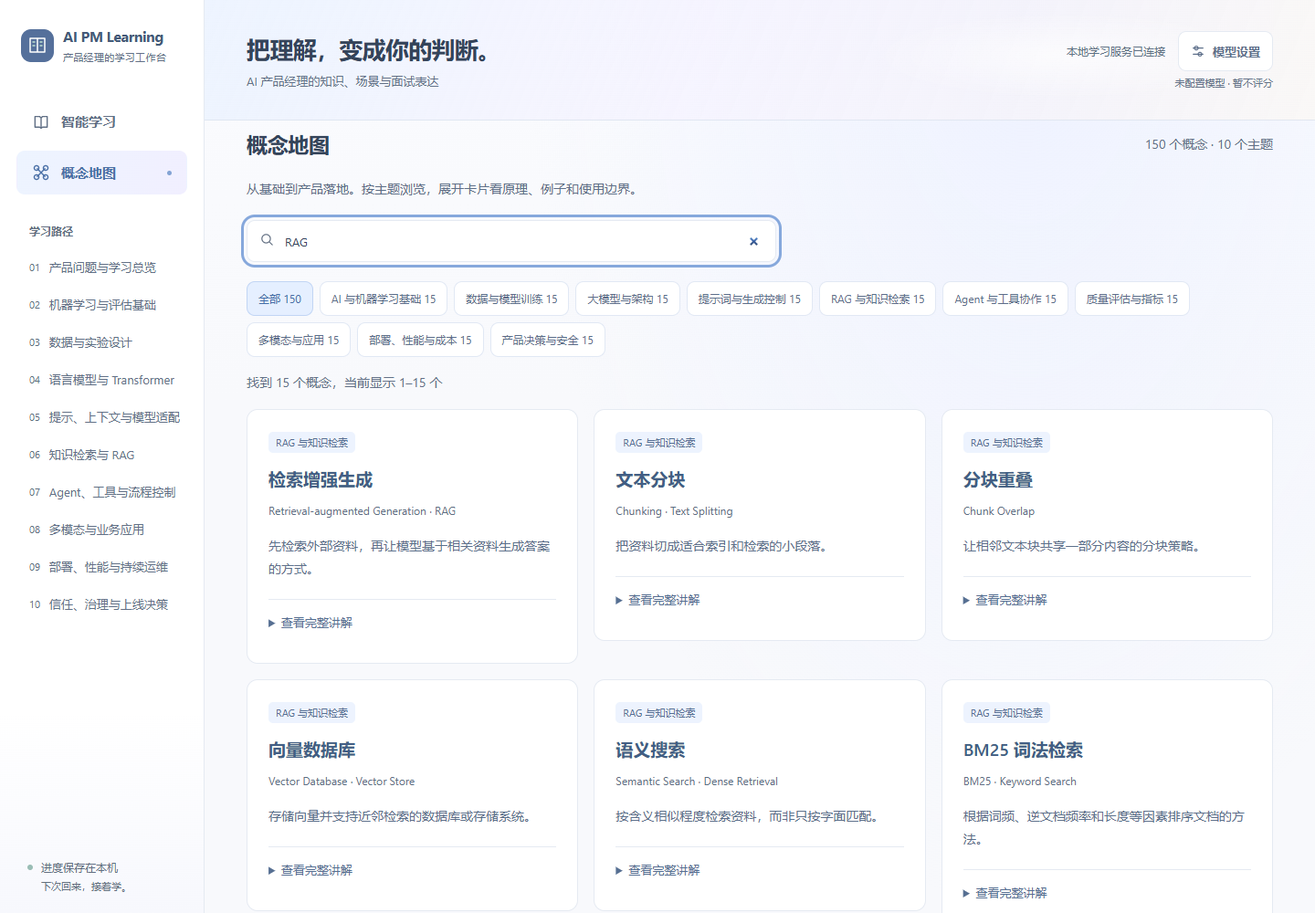
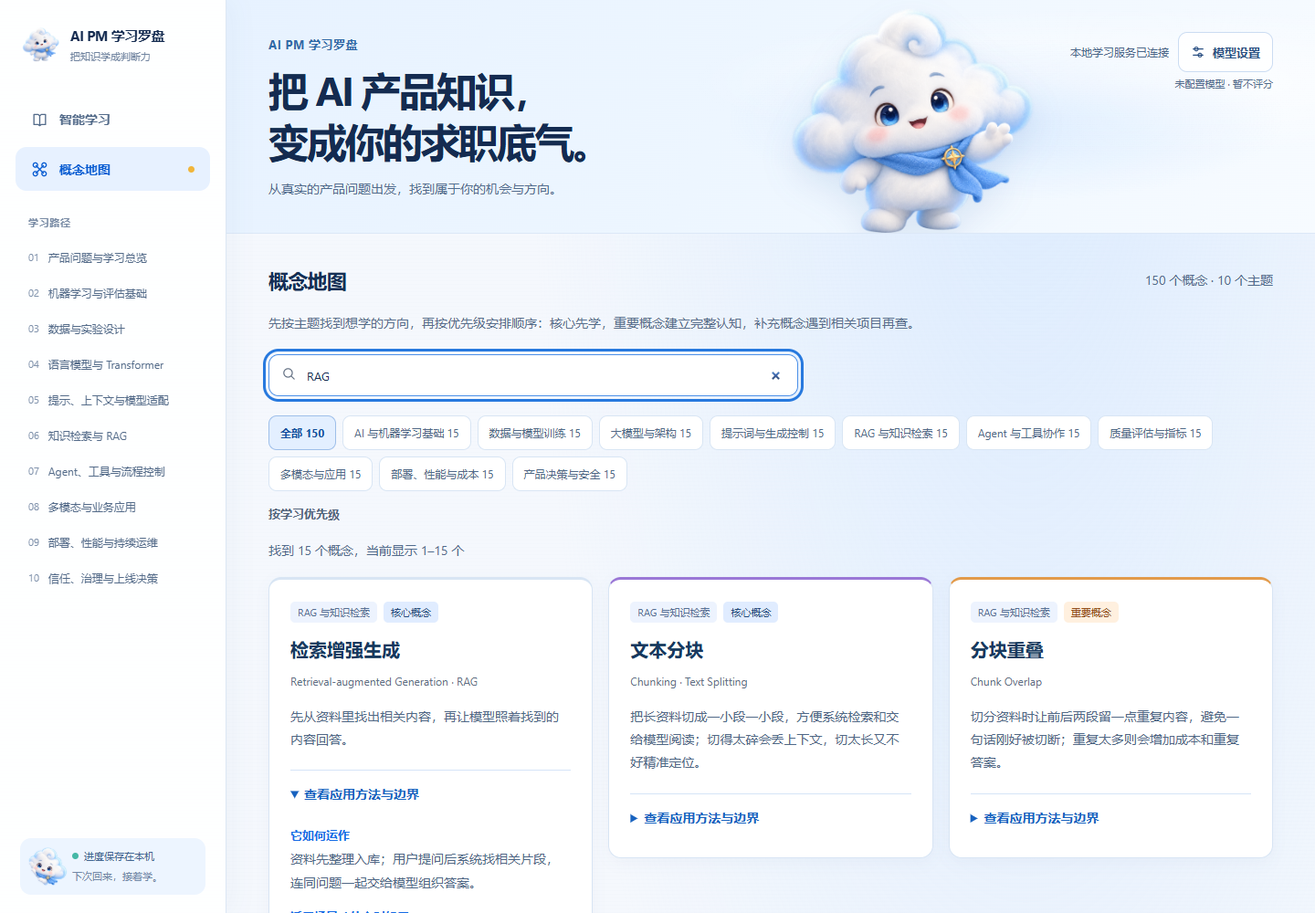
docs: refresh bilingual project README and screenshots

diff --git a/scripts/verify_model_settings_browser.py b/scripts/verify_model_settings_browser.py
@@ -66,6 +66,9 @@ try:
         page.get_by_role('button', name='查看本节：工作流、模型与知识检索的组合', exact=True).click()
         page.locator('#start-practice').click()
         page.locator('#answer').fill('先做票据识别和预填，程序查重校验，员工确认后提交。超时查状态并防重。')
+        page.locator('#draft-save-status').filter(has_text='已保存到本机').wait_for()
+        page.locator('#answer').evaluate('(el) => el.blur()')
+        page.locator('#session').screenshot(path=str(ROOT / 'docs' / 'images' / 'practice-question.png'))
         page.locator('#submit-answer').click()
         page.locator('#feedback').filter(has_text='尚未完成评价 · 不计分').wait_for()
         page.locator('#open-model-settings').click()
@@ -83,6 +86,7 @@ try:
         page.locator('#submit-answer').click()
         page.locator('#feedback').filter(has_text='90 分').wait_for()
         assert calls and service.public_status()['verified']
+        page.locator('#session').screenshot(path=str(ROOT / 'docs' / 'images' / 'score-feedback.png'))
         page.locator('#open-model-settings').click()
         assert page.locator('#model-api-key').input_value() == ''
         page.set_viewport_size({'width': 375, 'height': 812})

diff --git a/README.en.md b/README.en.md
@@ -1,108 +1,48 @@
-# AI PM Learning Copilot — Public Edition
+# AI PM Learning Compass
 
-**English project guide · Chinese-first learning experience · Local-first**
+**A Chinese-first, local-first study companion for AI product management and job interview practice.**
 
 [中文 README](README.md) · [English project introduction](docs/PROJECT_INTRO.en.md) · [中文项目介绍](docs/PROJECT_INTRO.zh-CN.md) · [Launch kit](docs/LAUNCH_KIT.md)
 
-![Local learning workspace with resumable progress](docs/images/learning-dashboard.png)
+Learn AI product concepts through real product situations: understand the idea, practice making a decision, then review what was strong and what your answer still needs.
 
-Screenshots use temporary demo records, not private learning data. The interface and lessons are primarily in Chinese; bilingual project introductions are available.
+## Product tour
 
-An independent, local-first learning companion for AI product-management concepts. The first public release focuses on smart learning, a concept map, answer feedback, and locally persisted progress through a public sample path.
+These images use temporary demo records. The score screen uses a mock evaluation; no private learning records, real answers, or API keys are included.
 
-## Scope and curriculum
+| Learning home | Scenario practice |
+|---|---|
+| <img src="docs/images/learning-dashboard.png" alt="Learning home with curriculum and local progress" width="100%"> | <img src="docs/images/practice-question.png" alt="AI PM interview scenario and answer field" width="100%"> |
+| **Score and answer feedback** | **Concept map** |
+| <img src="docs/images/score-feedback.png" alt="Mock score, strengths, gaps, and a sample improved answer" width="100%"> | <img src="docs/images/concept-map.png" alt="Searchable AI product concept cards organized by topic" width="100%"> |
 
-The sample lessons and concept cards were independently written for this public edition as general educational material, not as reproductions of a paid course. The project excludes course videos, slides, handouts, transcripts, proprietary question banks, collected course materials, browser profiles, databases, and private-app learning records.
+## What you can do
 
-The authoritative curriculum is `app/data/public_curriculum.json`: 60 lessons in 10 independently arranged modules, with 120 fixed knowledge points. It preserves the first three public lesson IDs (101–103) and six original public knowledge-point IDs (1001–1006). `sample_curriculum.json` is retained only as a historical sample and ID reference. No private course outline or database is imported.
+- **Follow a structured learning path:** 60 lessons across 10 modules, covering 120 knowledge points. Reading and practice progress stays on your device so you can pick up where you left off.
+- **Practice job-relevant product decisions:** Work through original AI product scenarios, with a general AI PM or AI+education direction.
+- **Get useful answer feedback:** Review strong points, important gaps, dimension scores, and a sample improved answer. If the model provider is unavailable, an answer stays **Pending evaluation**; the app does not invent a score.
+- **Explore the concept map:** Browse 150 topic-organized cards with Chinese and English search. Browsing concepts does not call a model API.
 
-46 lessons cite publicly readable textbook chapters; the other 14 refer to guides, official documentation, research papers, or author chapter summaries. Lessons include objectives, explanations, original business examples, and original practice tasks before questions. Detailed source panels are not shown in the reader; provenance remains in the curriculum JSON and API for maintenance. Links are references only: they are not redistributed books and do not imply permission to copy their prose. See [CURRICULUM_SOURCES.md](CURRICULUM_SOURCES.md) for scope and limitations.
+This is an independently authored public learning project, not a reproduction of a paid course. It does not include course videos, handouts, transcripts, proprietary question banks, private databases, or learning records from the original application. See [curriculum source notes](CURRICULUM_SOURCES.md) for scope and limitations.
 
-## Features
+## Run on Windows
 
-- Smart learning along the included public path.
-- Generated or fallback questions, answer evaluation, feedback, and remediation.
-- Local SQLite persistence for attempts, mastery, and progress.
-- A concept map with 150 independently authored cards, 10 topic filters, Chinese/English search, examples, related reading, and references. Browsing does not call a model API.
-- A continue action that advances to the next eligible knowledge point.
+Requires **Python 3.11 or later**.
 
-The public HTTP surface exposes only health, catalog, concept-map reads, and the learning start/answer/continue flow. Course collection, browser control, file import, interview practice, question-bank import, and V2 training are not mounted.
+1. Download or clone this repository.
+2. Double-click `Start Learning Copilot.bat`. On first launch, it creates a local environment and installs dependencies; allow a few minutes and an internet connection.
+3. The app opens in your browser. Keep the console window open while using it; press `Ctrl+C` there to stop the service.
 
-## Install and launch
+By default, the app runs at [http://127.0.0.1:8001/](http://127.0.0.1:8001/). Reading lessons and browsing concepts do not require model configuration.
 
-Requires Python 3.11 or later. On Windows, double-click `Start Learning Copilot.bat`. On first run, it creates a local virtual environment and installs dependencies; this may take a few minutes and requires internet access. It creates `.env` from `.env.example` only if `.env` does not already exist, then starts the app and opens <http://127.0.0.1:8001/>. Keep the console window open while using the app. Press `Ctrl+C` in that window to stop it.
+### Enable AI scoring
 
-## Configure answer evaluation
+Open **模型设置** (Model Settings) at the top of the page. Enter a trusted provider's HTTPS OpenAI-compatible API URL, exact model name, and your own API key. Review the data-transfer and cost notice before saving. Saving makes no provider request; the first practice or retry of a pending evaluation makes the call.
 
-1. Open **模型设置** (Model Settings) at the top of the page.
-2. Enter a trusted provider's HTTPS OpenAI-compatible API base URL, exact model name, and your own API key.
-3. Review and acknowledge provider access and cost, then save.
-4. Start a practice or retry a pending evaluation to make the first real provider request.
+The key entered on the page is held only in the local server process. It is not written to files, the learning database, or browser storage, and must be entered again after a server restart. Practice and scoring may send lesson excerpts, questions, and answers to your chosen provider and may incur charges. Never share a key in chat or commit one to the repository. This edition is for trusted local use, not direct public multi-user hosting.
 
-Saving settings makes no provider request and requires no restart. Never send keys in chat. If port 8001 is occupied, close the other app and launch again.
+## Local data and public content
 
-This public edition does not inherit the original application's model key. A key entered on the page stays only in the local server process: it is not written to files, the learning database, `localStorage`, or `sessionStorage`, and is never returned by the settings API. Password fields clear on save/close; restarting the server requires re-entry. Clearing settings disables future calls, though an in-flight request may still finish. The settings API accepts loopback/same-origin access only and requires a process token for changes. Provider URLs must use HTTPS and must not embed credentials or query parameters.
+Progress, drafts, and answer attempts are stored in a local SQLite database by default. There are no user accounts or cloud sync. The curriculum source is `app/data/public_curriculum.json`; the authoritative content for the 150 concept cards is `app/data/concept_library.json`. Curriculum checks validate structure and source metadata, but do not replace human fact-checking or establish copyright permission.
 
-This build is for trusted local use—not public multi-user hosting or an untrusted-device security boundary. Use only providers you trust with lesson excerpts, questions, and answers. Starting practice and grading may send that content to the provider and can incur charges.
-
-Legacy environment configuration remains available for advanced use; never commit `.env`. Clearing runtime settings does not remove a legacy environment key, which could reload on restart. No key is bundled with this release. If no working model is configured, answers are saved as **待评价** (Pending evaluation), never assigned fabricated scores. Authentication, quota, connection, and response-format errors produce safe messages; fix the settings and retry the same pending answer. HTML and static assets use no-store behavior and versioned asset URLs.
-
-### Test scoring yourself
-
-1. Launch the app, open **模型设置**, enter your provider URL, model name, and key, then save.
-2. Choose a lesson, read its knowledge points, select **开始练习** (Start practice), answer in your own words, and submit.
-3. When the provider works, the app shows a model score, dimension feedback, and an improved expression. On failure, the answer remains saved as **待评价**. Saving settings alone does not verify provider connectivity.
-4. After fixing settings, select **重新评价** (Retry evaluation) for a pending answer; no restart is needed. Completed evaluations are not overwritten.
-5. Clear the current settings after testing if desired. Learning progress remains. Page-entered keys are cleared when the server stops.
-
-## Data and privacy
-
-The dashboard distinguishes explicit reading markers, evaluated practice, completed learning flows, and mastery. `public_reading_bookmarks` stores per-lesson reading positions and read IDs; `public_answer_drafts` stores unsent drafts by attempt. These local SQLite tables are created additively and do not replace existing sessions, answers, or scores. Restoring a lesson, question, or evaluation makes no model call. Browser close uses a best-effort checkpoint; wait for **已保存到本机** (Saved locally) when possible. A forced shutdown before saving may lose the latest changes. Historical sessions can help recover practice location, but unrecorded historical reading positions cannot be reconstructed.
-
-This installation assumes one trusted local learner. It has no account isolation or cloud sync. Concurrent tabs use last-write-wins checkpoints without conflict merging. Drafts and reading records are private and must not be published. Restarting the local server retains the learning database but clears page-entered model credentials.
-
-The first run creates `data/app.db` and seeds the public path. Later starts synchronize owned curriculum content without deleting sessions, answers, or mastery. Legacy extra rows are preserved but excluded from the managed public catalog. Learning records remain in the local database. Make a private backup before upgrading; Git ignores `data/backups/`. Add course materials only if you own them or have permission to redistribute them.
-
-## Maintaining lessons
-
-All 60 lessons and 120 knowledge points use a compact teaching layout based on lesson 102: three essentials (what, use, boundary), a five-step application/judgment diagram with a recovery branch, one original short example, and a job-interview takeaway. Required prose is capped at 350 Chinese/ASCII characters per point (diagram labels are checked separately). Deeper principles, examples, counterexamples, application steps, and interview detail are optional and collapsed by default. The cap controls length; it does not guarantee reading time or learning outcomes.
-
-`app/data/lesson102_teaching.json` retains the pilot's two richer seven-section explanations. `app/data/teaching/M01.json` through `M10.json` provide independently authored meaning/action/boundary/flow/recovery/counterexample notes for the other 118 points. `app/services/compact_teaching.py` combines these with existing explanations, examples, and product relevance without changing their text, IDs, or source mapping. This shared structure does not claim identical depth or newly verified textbook support. Added notes are original teaching organization, not quotations; no new book-access or review claims were added.
-
-The course list offers a job-direction preference (general AI PM or AI+education PM), stored in the browser. New sessions snapshot the selected direction; existing sessions retain theirs. Lesson 102 has distinct original general and education cases with explicit scenarios, constraints, decision requests, interviewer rationale, and task-specific scoring points. These questions are curated, not regenerated on every start; feedback and supporting services may still use the configured model. Other lessons receive role context but do not yet all have bespoke two-track case sets.
-
-Edit `app/data/public_curriculum.json` and the corresponding module teaching-note file, run `python scripts/check_curriculum.py`, and restart the app. Preserve existing lesson and knowledge-point IDs. New lessons require unique IDs, module membership, objectives, at least two complete knowledge points, an original practice scenario, valid source references with section/version information, and corresponding compact notes. The loader rejects missing/extra note IDs, duplicate IDs across modules, and malformed notes/flows. Keep original examples distinct from source-backed explanations. Do not label a table of contents or author summary as a book chapter that was read. Changing existing ID ownership stops synchronization rather than overwriting unrelated data. Restarting also clears page-entered runtime model credentials; re-enter them only in local model settings.
-
-The content checker validates completeness and provenance metadata, not factual correctness or copyright clearance. Human review of the actual sources remains necessary. Reading lessons or browsing concepts makes no model call; starting and answering practice may use the configured API.
-
-Feedback follows the submitted question even if the page has switched to a retest: the question and saved answer remain inspectable. Strengths, the two most important gaps, and a coherent improved answer are shown first; answer frameworks, expert answers, and dimension scores are optional. Lesson 102 has 12 exact-case reference guides in `app/data/lesson102_feedback.json`; these are examples, not a unique keyword-based answer key.
-
-If model evaluation is unavailable or falls back offline, the public API returns `evaluation_source=offline`, `total_score=null`, `pass_status=UNASSESSED`, and `next_action=retry_evaluation`. The answer is saved, but no evaluation, weakness, review, or mastery update is created. Retry the same unassessed attempt after restoring model access. Offline reference guidance must not be presented as personalized critique. Length-based fallback scoring has been removed; historical scores are not silently deleted, inflated, or retrospectively regraded. A real evaluation is required to reassess them.
-
-## Maintaining the concept library
-
-`app/data/concept_library.json` is the authoritative public concept file. Each card includes a stable public ID, Chinese name, English aliases, category, definition, mechanism, usage, pitfalls, AI PM relevance, example, related reading, and reference IDs. The 150 concepts are an editorial selection for AI PM learning, not an official universal list. Explanations and examples are independently written; links point to public references from Google, Hugging Face, Microsoft, Anthropic, MCP, scikit-learn, NIST, OWASP, and others.
-
-Edit this JSON to revise or add cards, then restart the app. Startup synchronizes the owned public cards into an existing database without deleting course data or progress. Keep an existing card's ID when editing. A new card needs a unique ID and name, valid category, related names, and source IDs. The original three public concept IDs (2001–2003) are preserved. These cards are refreshed from the content file, so edit the JSON rather than database text. Removing a card requires an explicit data migration; synchronization does not delete stored cards.
-
-## Checks and release
-
-Run in Windows PowerShell:
-
-```powershell
-python scripts/release_check.py
-python scripts/audit_release.py
-python scripts/check_curriculum.py
-pytest -q
-node --test tests/test_start_practice_ui.cjs
-```
-
-Optional browser acceptance: `python scripts/verify_compact_teaching_browser.py` (requires Playwright and Edge). It uses a temporary database and offline test model with no API key; opens all 60 lesson readers, expands/collapses all 120 points, checks four representative mobile readers, and exercises offline practice/return and concept search. It does not call a paid provider.
-
-The release check rejects common local secrets, databases, browser state, course media, logs, and private feature routes. The privacy audit reads the Git index and committed blobs, checks common credential patterns, private paths, matches against locally configured secrets, and PNG metadata; it reports locations without echoing matched values. Internal `MEMORY.md` notes and local environment variants are ignored. Pattern checks cannot guarantee that every secret is detected or establish copyright clearance. Review [RELEASE_CHECKLIST.md](RELEASE_CHECKLIST.md) and [docs/RELEASE_AUDIT.md](docs/RELEASE_AUDIT.md) before creating a public GitHub repository. This folder is a separate project copy; the original application is separate.
-
-Python tests use a temporary database/storage directory and empty model key, never the real learning database or API key. Browser acceptance uses separate temporary data and an offline test model. Passing tests does not establish real-provider grading quality or employment outcomes.
-
-## License
-
-No software license has been selected for this edition. Do not assume the project is available for reuse until ownership and third-party dependency terms have been confirmed and a license is added.
+For technical details, see [curriculum source notes](CURRICULUM_SOURCES.md), the [release checklist](RELEASE_CHECKLIST.md), [privacy and release audit](docs/RELEASE_AUDIT.md), and the [launch kit](docs/LAUNCH_KIT.md). No software license has been selected; do not assume reuse is permitted until ownership and dependency terms are confirmed.

diff --git a/README.md b/README.md
@@ -1,111 +1,48 @@
-# AI PM Learning Copilot｜AI 产品经理学习助手
+# AI 产品经理学习罗盘
 
-**公开版 · 中文优先 · 本地运行**
+**AI PM Learning Compass · 中文优先 · 本地运行 · 面向求职实践**
 
-[English README](README.en.md) · [中文项目介绍](docs/PROJECT_INTRO.zh-CN.md) · [English project introduction](docs/PROJECT_INTRO.en.md) · [发布素材 / Launch kit](docs/LAUNCH_KIT.md)
+[English README](README.en.md) · [中英文项目介绍](docs/PROJECT_INTRO.zh-CN.md) · [Project introduction](docs/PROJECT_INTRO.en.md) · [发布素材](docs/LAUNCH_KIT.md)
 
-![本地学习工作台与可继续的学习进度](docs/images/learning-dashboard.png)
+把 AI 产品知识放进真实业务场景里学：先理解概念，再练习做判断，最后看清自己的回答哪里扎实、哪里还需要补充。
 
-截图使用临时演示记录，不包含私人学习数据。产品界面和课程内容以中文为主，项目说明提供中英文版本。
+## 产品页面
 
-AI PM Learning Copilot 是一款独立、以本地运行为主的 AI 产品经理学习助手。公开首发版聚焦智能学习、概念地图、答题反馈，以及保存在本机的学习进度，课程采用公开版示例路径。
+以下截图来自临时演示数据。评分页使用模拟评价结果，不含私人学习记录、真实作答或 API 密钥。
 
-## 使用方法
-下载所有文件后，点击Start Learning Copilot.bat 即可运行
+| 学习首页 | 面试场景练习 |
+|---|---|
+| <img src="docs/images/learning-dashboard.png" alt="学习首页：课程路径与本机学习进度" width="100%"> | <img src="docs/images/practice-question.png" alt="练习页面：AI 产品经理场景题与作答区" width="100%"> |
+| **评分与改进反馈** | **概念地图** |
+| <img src="docs/images/score-feedback.png" alt="模拟评分、回答优点、待补充内容与参考表达" width="100%"> | <img src="docs/images/concept-map.png" alt="按主题浏览和搜索 AI 产品概念卡片" width="100%"> |
 
-## 项目范围与课程内容
+## 你可以用它做什么
 
-本项目中的示例课程和概念卡片均为公开版独立编写的通用学习材料，不是付费课程的复刻。项目不包含课程视频、课件、讲义、逐字稿、专有题库、课程采集内容、浏览器个人资料、数据库或私人应用中的学习记录。
+- **沿学习路径系统学习：** 60 节课、10 个模块、120 个知识点；阅读和练习进度保存在本机，下次可以接着学。
+- **练习求职场景：** 围绕 AI 产品工作中的真实取舍组织练习，可选择通用 AI 产品经理或 AI+教育方向。
+- **获得可读的答题反馈：** 查看回答中的有效判断、关键缺口、分项评价和参考表达。模型服务不可用时，答案会标为“待评价”，不会编造分数。
+- **用概念地图查漏补缺：** 150 张概念卡按主题整理，支持中英文搜索；浏览概念不调用模型 API。
 
-正式课程数据位于 `app/data/public_curriculum.json`：共 10 个独立编排模块、60 节课和 120 个固定知识点，并保留前三节公开课程 ID（101–103）及六个原有公开知识点 ID（1001–1006）。`sample_curriculum.json` 仅作为历史示例和 ID 参考，不导入私人课程大纲或私人数据库。
+这是一个独立编写的公开学习项目，不是付费课程的复刻。课程正文、示例和练习均为本项目整理或原创；不包含课程视频、讲义、逐字稿、专有题库、私人数据库或原应用学习记录。来源范围与限制见 [课程来源说明](CURRICULUM_SOURCES.md)。
 
-其中 46 节课标注了可公开阅读的教材章节参考；其余 14 节参考指南、官方文档、研究论文或作者章节摘要。每节课包含学习目标、讲解、原创业务示例和原创练习任务，进入答题前可先学习知识点。学习页面不展示详细来源面板；来源信息仍保存在课程 JSON 和 API 中供维护。来源链接仅作延伸阅读参考，不代表重新发布书籍内容，也不构成对复制原文的授权。来源范围与限制见 [CURRICULUM_SOURCES.md](CURRICULUM_SOURCES.md)。
+## 在 Windows 上运行
 
-## 功能
+需要 **Python 3.11 或更新版本**。
 
-- 沿公开课程路径进行智能学习。
-- 生成题目或使用备用题目，提交回答、获得反馈并进行补充学习。
-- 将练习记录、掌握度和进度保存到本地 SQLite 数据库。
-- 概念地图包含 150 张独立编写的概念卡、10 个主题筛选、中文/英文搜索、示例、关联阅读和参考链接；浏览概念不会调用模型 API。
-- “继续学习”可前往下一个符合条件的知识点。
+1. 下载或克隆本仓库。
+2. 双击 `Start Learning Copilot.bat`；首次启动会创建本地环境并安装依赖，需要联网等待几分钟。
+3. 浏览器打开后即可阅读课程和浏览概念地图。保持启动窗口开启；按 `Ctrl+C` 停止服务。
 
-公开版 HTTP 接口仅开放健康检查、课程目录、概念地图读取，以及学习开始/答题/继续流程。课程采集、浏览器控制、文件导入、面试练习、题库导入和 V2 训练功能均未挂载。
+应用默认在 [http://127.0.0.1:8001/](http://127.0.0.1:8001/) 提供服务。若只想阅读和体验界面，不需要配置模型。
 
-## 安装与启动
+### 启用 AI 评分
 
-需要 Python 3.11 或更新版本。Windows 用户双击 `Start Learning Copilot.bat` 即可启动。首次运行会创建本地虚拟环境并安装依赖，可能需要几分钟且需要联网。启动器仅在 `.env` 不存在时从 `.env.example` 创建 `.env`，随后启动服务并打开 [http://127.0.0.1:8001/](http://127.0.0.1:8001/)。使用期间请保持控制台窗口开启；需要停止时，在该窗口按 `Ctrl+C`。
+在页面顶部打开“模型设置”，填写你信任的服务商所提供的 HTTPS、OpenAI 兼容 API 地址、模型名称和你自己的 API 密钥，确认数据传输与费用提示后保存。保存时不会发起模型请求；首次练习或重新评价待评价答案时才会调用服务商。
 
-## 配置答题评分
+页面输入的密钥只保存在本地服务进程内，不写入文件、学习数据库或浏览器存储；重启服务后需重新填写。练习和评分可能把题目、课程片段及回答发送给所选服务商并产生费用。请勿把密钥发到聊天或提交到仓库。此版本面向可信的个人本机使用，不适合直接部署为公网多用户服务。
 
-1. 在页面顶部打开“模型设置”。
-2. 填入你信任的服务商所提供的 HTTPS、OpenAI 兼容 API 地址，准确的模型名称，以及你自己的 API 密钥。
-3. 阅读并确认服务商访问与费用提示，然后保存。
-4. 开始练习，或对尚未评价的答案重新评价，以触发首次实际模型请求。
+## 本地数据与公开内容
 
-保存设置本身不会请求服务商，也不需要重启。请勿在聊天中发送密钥。若 8001 端口被占用，请关闭占用该端口的其他程序后再启动。
+学习进度、草稿和答题记录默认保存在本机 SQLite 数据库，不提供账号系统或云同步。公开课程数据位于 `app/data/public_curriculum.json`，150 张概念卡的权威内容位于 `app/data/concept_library.json`。课程检查器可检查结构和来源元数据，但不替代人工事实核对，也不构成版权许可结论。
 
-公开版不会继承原应用的模型密钥。通过页面输入的密钥只保存在本地服务进程内，不写入文件、学习数据库、`localStorage` 或 `sessionStorage`，设置 API 也不会返回密钥。保存或关闭设置时密码框会清空；重启服务后需要重新输入。清除配置会停止后续模型调用，但已发出的请求仍可能完成。修改设置的 API 仅接受回环/同源访问，并要求进程令牌；服务商地址必须使用 HTTPS，且不能在地址中嵌入账号凭据或查询参数。
-
-这是为可信的个人本机使用设计的版本，不适合直接作为多用户公网服务，也不是针对不可信设备的安全边界。请只使用你信任的模型服务商；开始练习和评分时，课程片段、题目及回答可能发送给该服务商并产生费用。
-
-高级用户仍可使用旧版环境变量配置，但不要提交 `.env`。清除页面运行时配置不会删除旧环境变量中的密钥，重启后可能重新加载。此公开版本不捆绑 API 密钥。若模型不可用，答案会保存为“待评价”，不会伪造分数。遇到身份验证、额度、连接或返回格式错误时，页面会给出安全提示；修正设置后可重试同一条待评价答案。HTML 和静态资源使用不缓存策略及带版本号的资源地址。
-
-### 亲自测试答题评分
-
-1. 一键启动后，打开“模型设置”，填写服务商地址、模型名称和自己的密钥并保存。
-2. 选择课程，先阅读知识点，再点击“开始练习”，用自己的话回答并提交。
-3. 模型配置可用时，页面会显示模型评分、分项反馈和改进表达。调用失败时，答案仍会保存并显示“待评价”；保存配置成功不代表服务商连接已验证。
-4. 修正配置后，可对尚未评价的原答案点击“重新评价”，无需重启。已经完成的评分不会被重复覆盖。
-5. 测试结束可清除当前配置；学习进度会保留。关闭服务后，页面输入的密钥不会保留。
-
-## 数据与隐私
-
-学习面板会区分显式阅读标记、已评价练习、已完成学习流程和知识掌握度。`public_reading_bookmarks` 按课程保存阅读位置和已读知识点；`public_answer_drafts` 按作答记录保存未提交草稿。这些本地 SQLite 表会以增量方式创建，不会替换已有会话、答案或分数。恢复课程、题目或评价记录不会调用模型。浏览器关闭时会尽力保存进度；如页面显示“已保存到本机”，再关闭更稳妥。若强制关闭发生在保存之前，最新未保存的修改可能丢失。历史会话可帮助恢复此前的练习位置，但无法还原当时未记录的阅读位置。
-
-此安装假设由一位可信的本地学习者使用，不提供账号隔离或云同步。多个标签页同时操作时采用最后写入生效的进度保存方式，不做冲突合并。草稿和阅读记录属于私人数据，不应发布。重启本地服务会保留学习数据库，但会清除页面输入的运行时模型密钥。
-
-首次运行会创建 `data/app.db` 并写入公开课程路径。之后启动时会同步本项目管理的课程内容，但不会删除学习会话、答案或掌握度。旧数据库中的额外课程行会保留，但不会出现在公开目录中。学习记录仅保存在本地数据库。升级前请自行创建私人备份；Git 会忽略 `data/backups/`。只有在拥有相关内容或获得再分发许可时，才可添加课程材料。
-
-## 维护课程内容
-
-目前 60 节课、120 个知识点均采用以第 102 节试点为基础的精简教学结构：三个要点（是什么、如何使用、边界）、五步应用/判断图与失败恢复分支、一个原创短例子，以及求职面试要点。每个知识点的必读正文限制在 350 个中英文字符以内（流程图标签另计）；更深入的原理、例子、反例、应用步骤和面试拓展默认折叠。此长度限制仅用于控制篇幅，不保证具体阅读时长或学习效果。
-
-`app/data/lesson102_teaching.json` 保留试点课程原有的两份七段式详细讲解；`app/data/teaching/M01.json` 至 `M10.json` 为其余 118 个知识点提供独立编写的含义、行动、边界、流程、恢复和反例说明。`app/services/compact_teaching.py` 将这些内容与既有讲解、示例和产品关联组合展示，不改变其原文、ID 或来源映射。这是统一的教学结构，不代表所有讲解深度完全相同，也不表示重新核验了所有教材。新增说明是原创教学组织内容，不是来源摘录；未新增“已阅读或核验新书”的声明。
-
-课程目录提供求职方向选择（通用 AI PM 或 AI+教育 PM），并保存在浏览器偏好中。新建学习会话会记录当时选择的方向；旧会话继续保留原有方向。第 102 节含通用版与教育版的原创案例，明确场景、限制、决策任务、面试官关注点和对应评分点；题目为精选题，不会在每次开始时重新生成。反馈及配套服务仍可能使用已配置的模型。其他课程会带入方向上下文，但目前尚未全部拥有两套专属场景题。
-
-修改内容请直接编辑 `app/data/public_curriculum.json`，以及对应模块的教学笔记文件，然后运行 `python scripts/check_curriculum.py` 并重启应用。修改内容时保留现有课程和知识点 ID。新增课程必须使用唯一 ID、指定所属模块、包含学习目标、至少两个完整知识点、原创练习场景、带章节/版本信息的有效来源引用，以及对应的精简教学笔记。加载器会检查笔记 ID 是否缺失或多余、跨模块 ID 是否重复，以及笔记/流程结构是否有效。请区分独立编写的例子与有来源支持的解释。不要把目录或作者摘要标成已阅读的书籍章节。修改现有 ID 的归属会触发同步停止，避免覆盖无关数据。重启也会清除页面填写的运行时模型密钥；仅在本地模型设置页面重新填写。
-
-课程检查器验证的是内容完整性和来源元数据，不验证事实正确性，也不提供版权许可结论。仍需人工核对实际来源。阅读课程或浏览概念不会调用模型；开始答题及提交回答可能使用已配置的 API。
-
-反馈会绑定到实际提交的题目，即使页面顶部已切换到复测题，也能检查对应题目和已保存答案。反馈优先显示优点、最重要的两个缺口和连贯的优化答案；答题框架、专家答案和维度分数为可选内容。第 102 节在 `app/data/lesson102_feedback.json` 中提供 12 个对应具体案例的参考指南，它们是示例，不是按关键词唯一匹配的标准答案。
-
-若模型评价不可用或转入离线模式，公开 API 会返回 `evaluation_source=offline`、`total_score=null`、`pass_status=UNASSESSED` 和 `next_action=retry_evaluation`。答案会保存，但不会生成模型评价、薄弱项、复习安排或掌握度更新。恢复模型服务后可以重新提交同一条未评价记录。离线参考指导不得冒充针对个人答案的评价。旧版基于答案长度的备用评分已移除；历史分数不会被悄悄删除、抬高或追溯重评，需通过真实模型评价重新评估。
-
-## 维护概念库
-
-`app/data/concept_library.json` 是公开概念内容的唯一权威文件。每张卡片包含稳定的公开 ID、中文名称、英文别名、类别、定义、机制、用途、陷阱、AI PM 关联、示例、同主题阅读链接和来源 ID。150 个概念是为 AI PM 学习整理的编辑选编，不是官方或普遍公认的唯一清单。解释和示例均为独立编写；链接指向 Google、Hugging Face、Microsoft、Anthropic、MCP、scikit-learn、NIST、OWASP 等公开参考资料。
-
-新增或修改概念卡时编辑该 JSON 并重启应用。启动时会把本项目管理的公开概念同步到现有数据库；新增内容不会删除课程数据或学习进度。修改现有概念时保留其 ID。新卡片需要唯一 ID 和名称，以及有效类别、关联概念和来源 ID。原有三个公开概念 ID（2001–2003）会保留。概念卡由内容文件刷新，因此应编辑 JSON，而不是数据库中的文字。移除概念需要明确的数据迁移；同步过程不会自动删除已存储的卡片。
-
-## 检查与发布
-
-在 Windows PowerShell 中运行：
-
-```powershell
-python scripts/release_check.py
-python scripts/audit_release.py
-python scripts/check_curriculum.py
-pytest -q
-node --test tests/test_start_practice_ui.cjs
-```
-
-可选浏览器验收：`python scripts/verify_compact_teaching_browser.py`（需要 Playwright 和 Edge）。该检查使用临时数据库和离线测试模型，不使用模型密钥；会打开全部 60 节课的学习页、展开/收起 120 个知识点、检查 4 个代表性移动端页面，并测试离线练习/返回和概念搜索。不会调用付费模型服务。
-
-发布检查会拦截常见本地密钥、数据库、浏览器状态、课程媒体、日志和私人功能路由。隐私审计会读取 Git 索引和已提交文件，检查常见凭据模式、私人路径、本地已配置密钥的匹配情况和 PNG 元数据；报告位置时不会输出匹配到的密钥内容。内部 `MEMORY.md` 和本地环境文件变体会被 Git 忽略。模式检查不能保证发现所有秘密，也不能证明内容已获得版权许可。创建公开 GitHub 仓库前请阅读 [RELEASE_CHECKLIST.md](RELEASE_CHECKLIST.md) 和 [docs/RELEASE_AUDIT.md](docs/RELEASE_AUDIT.md)。此目录是独立项目副本，与原应用分开。
-
-Python 测试会自动使用临时数据库/存储目录和空模型密钥，不会使用真实学习数据库或 API 密钥。浏览器验收也使用独立临时数据和离线测试模型。测试通过不代表已验证真实服务商的评分质量或求职效果。
-
-## 许可证
-
-本公开版尚未选择软件许可证。在确认代码所有权及第三方依赖条款前，请勿假设他人可以复用本项目。
+更多技术细节见 [课程来源说明](CURRICULUM_SOURCES.md)、[发布检查清单](RELEASE_CHECKLIST.md)、[隐私与发布审计](docs/RELEASE_AUDIT.md) 和 [发布素材说明](docs/LAUNCH_KIT.md)。软件许可证尚未确定；在所有权和依赖条款确认前，请勿假设本项目可自由复用。
